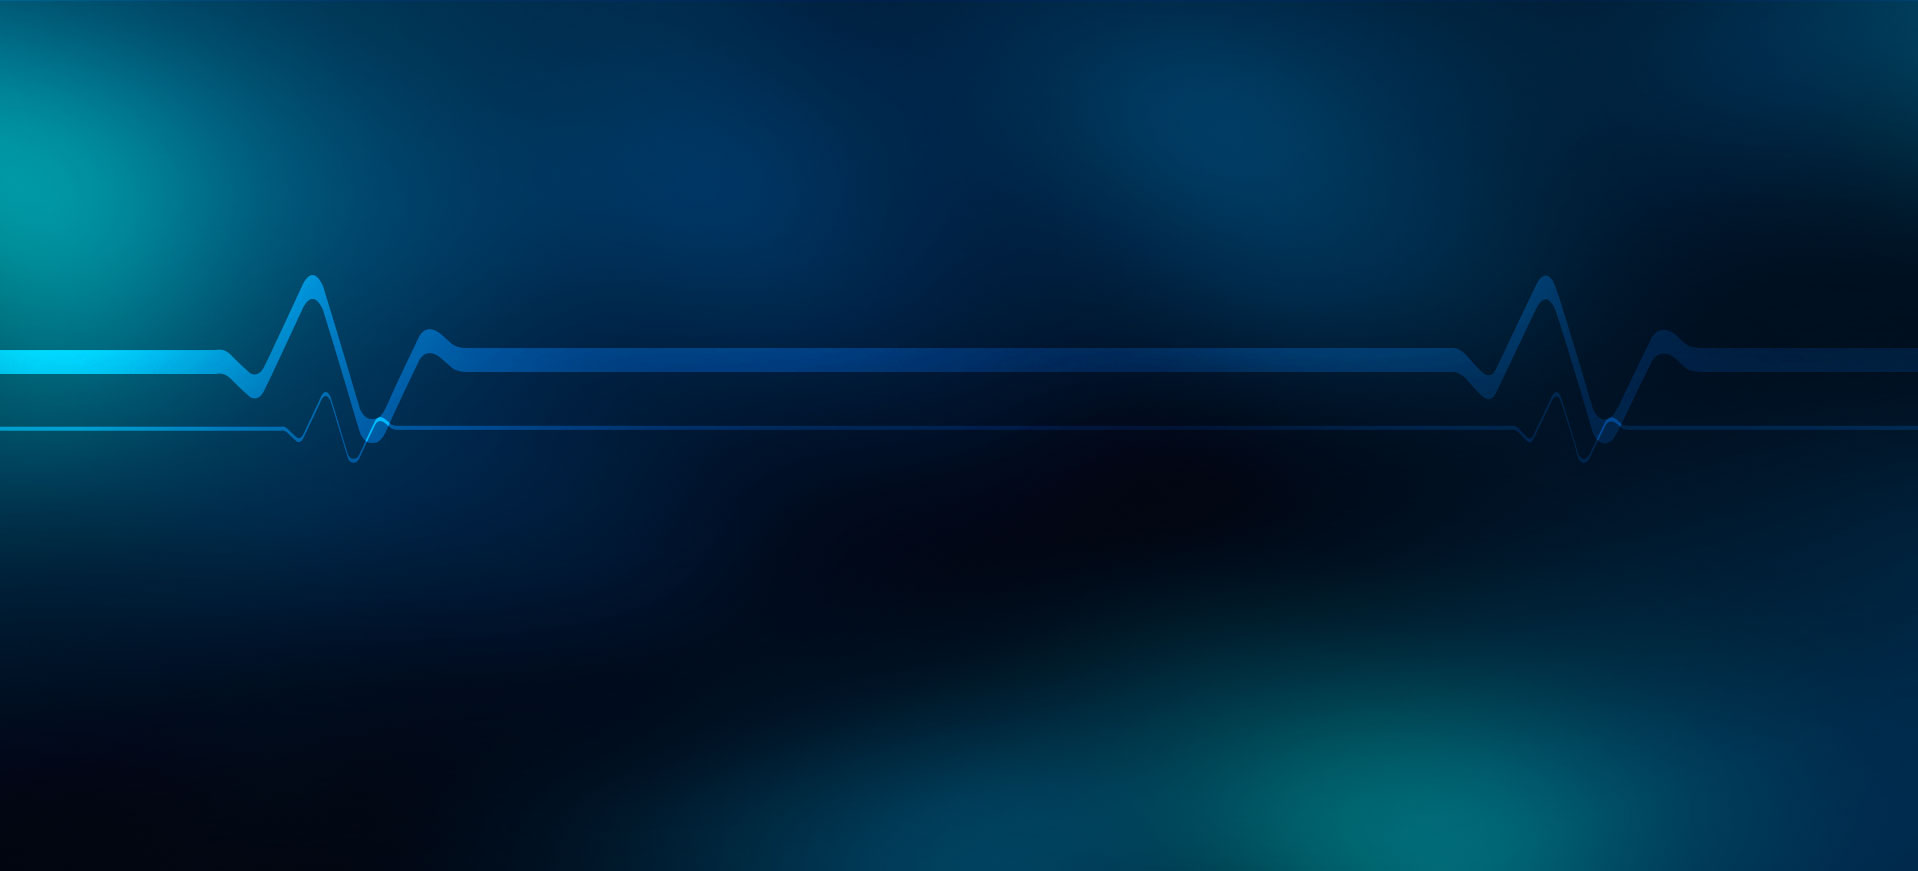
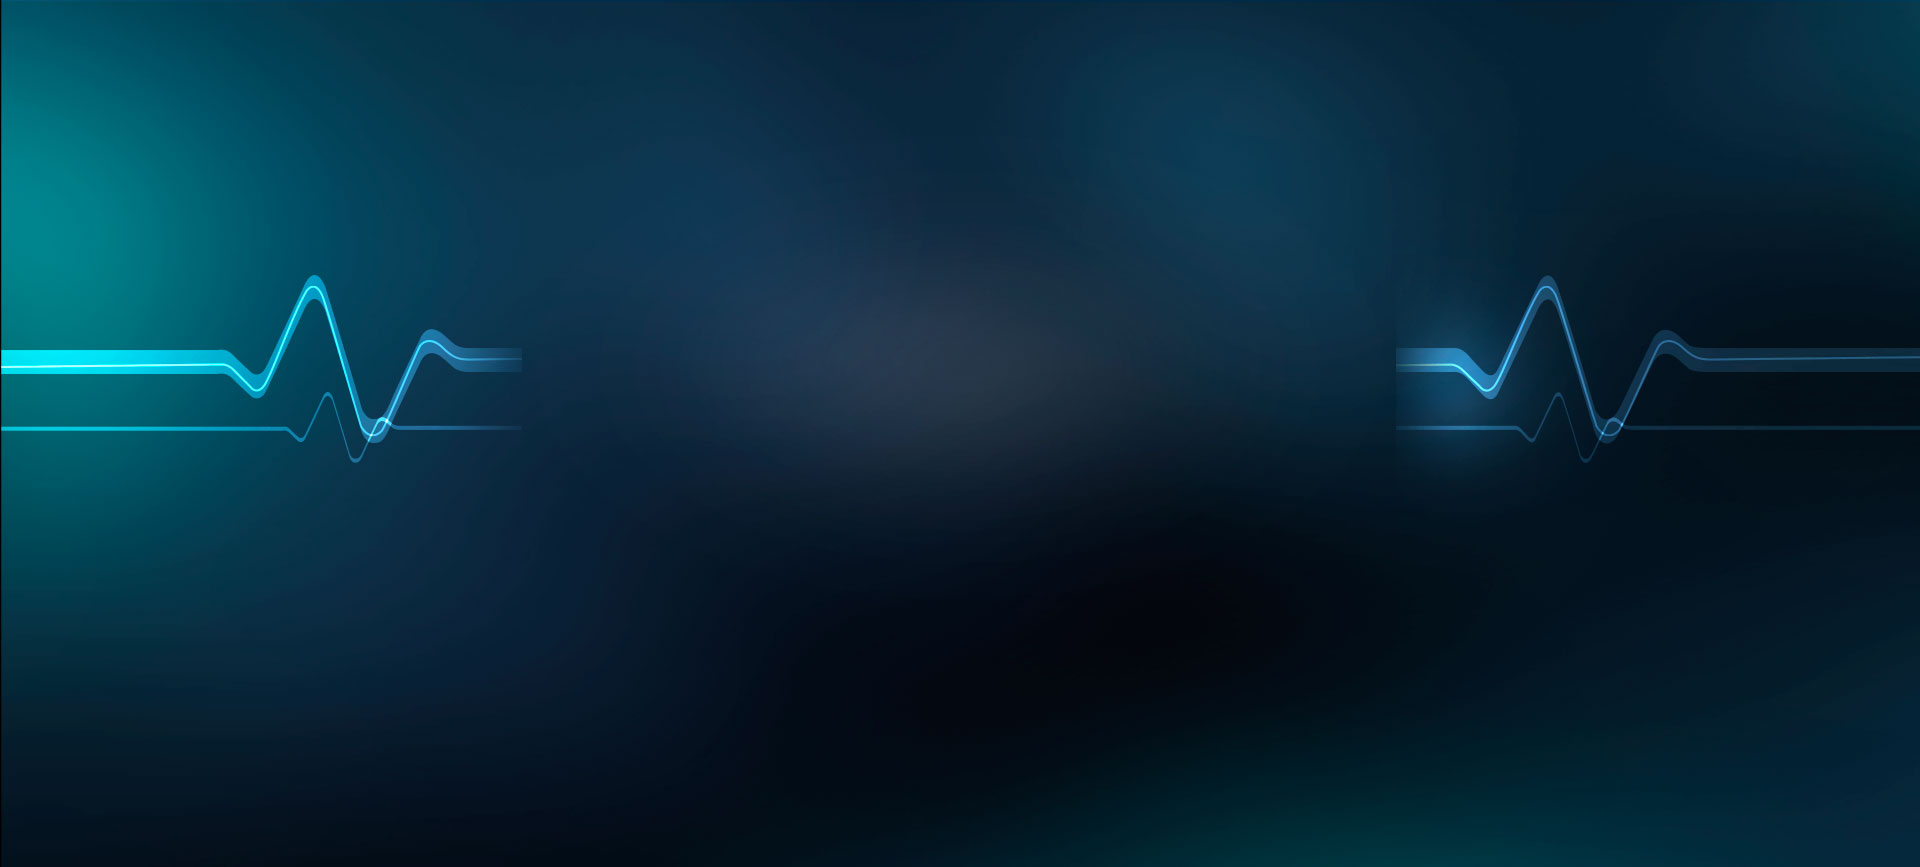
backgrounds countdown and subscribe fixed

diff --git a/css/custom.css b/css/custom.css
@@ -69,12 +69,12 @@ section {
 	background: url("../img/square-countdown.png") no-repeat;
 	color: #fff;
 	display: inline-block;
-	height: 190px;
-	width: 190px;
-	margin: 0 20px;
+	height: 138px;
+	width: 138px;
+	margin: 0 8px;
 }
 #countdown .countdown-items-wrapper .countdown-item .value {
-	font-size: 100px;
+	font-size: 68px;
 	font-weight: 100;
 }
 #countdown .countdown-items-wrapper .countdown-item .name {
@@ -86,13 +86,17 @@ section {
 }
 /*SUBSCRIBE*/
 #subscribe{
-	background: url("../img/fondo-subscribe.jpg") ;
-	background-size: cover;
+	background: url("../img/fondo-subscribe.png") ;
+	background-size: contain;
+	background-position-y: -1px;
 }
 /*INVEST AND JOIN US*/
 #investjoin{
 	background: url("../img/fondo-joininvest.jpg") ;
-	background-size: cover;
+	background-size: 100% 100%;
+	background-position-y: -1px;
+	background-repeat: no-repeat;
+
 }
 /*ABOUT*/
 #about{
@@ -120,10 +124,10 @@ section {
 	min-height: 200px;
 }
 .milestone-bottom > div {
-    align-self: flex-end;
+	align-self: flex-end;
 }
 .milestone-center > div {
-    align-self: center;
+	align-self: center;
 }
 .milestone ul {
 	font-size: 14px;
@@ -136,7 +140,7 @@ section {
 	margin-top: -115px;
 }
 #roadmap .row-bottom-roadmap {
-margin-top: -75px;
+	margin-top: -75px;
 }
 
 
